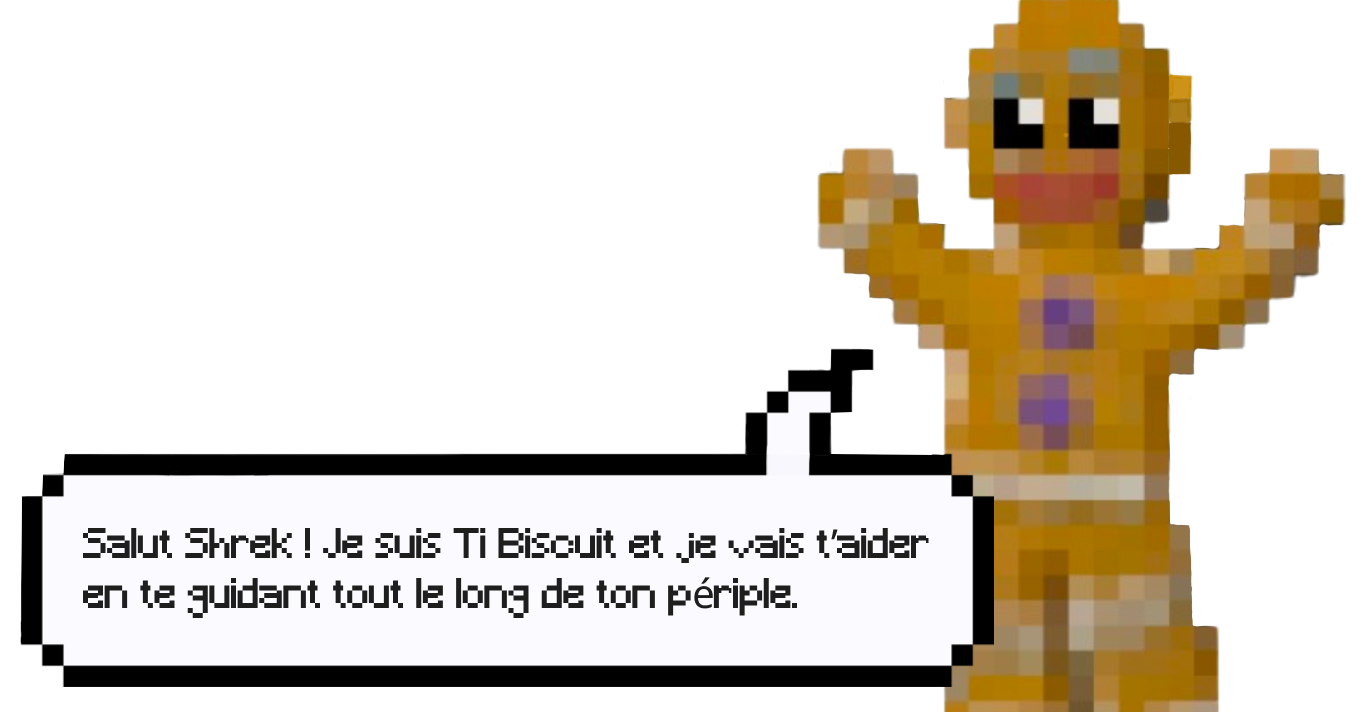
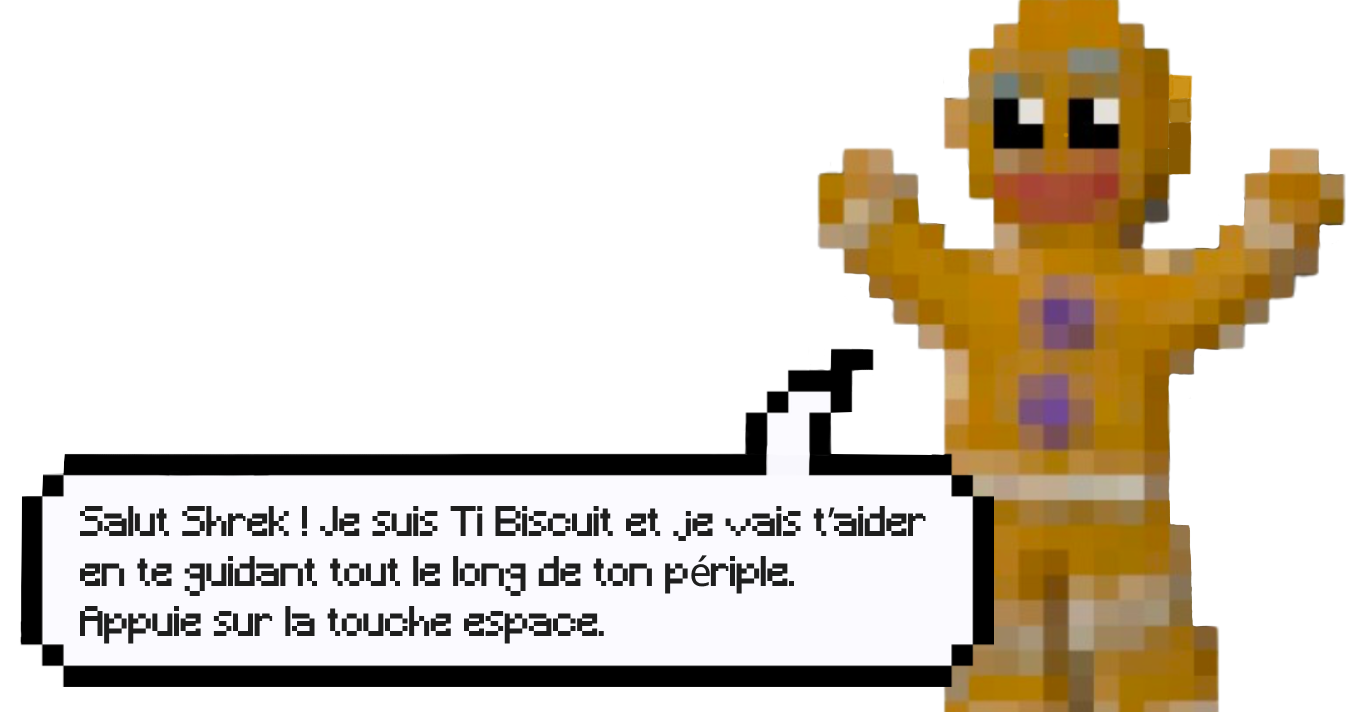
SceneIntro

Changed region(s): [[0.0615, 0.7107, 0.6769, 0.8961]]

diff --git a/Assets/Scripts/Core/HUD.cs b/Assets/Scripts/Core/HUD.cs
@@ -9,6 +9,23 @@ public class HUD : MonoBehaviour
 	[SerializeField] private GameObject deathText; //On insère l'objet texte qui affiche le nombre de morts
 	[SerializeField] private GameObject levelText; //On insère l'objet texte qui affiche le numéro du niveau
 	[SerializeField] private GameObject timerText; //On insère l'objet texte qui affiche le compteur de temps
+	[SerializeField] private GameObject[] imagesDialog1;
+
+	private int numImageDialog1 = 0;
+	private bool showingDialog1 = false;
+
+	void Update()
+    {
+        if (showingDialog1)
+        {
+            if (Input.GetKeyDown(KeyCode.Space))
+            {
+                ShowNextDialog1();
+            }
+        }
+    }
+
+
 	
 	public void updateDeathText(int nbDeath){
 		deathText.GetComponent<TMP_Text>().text = "Morts : " + nbDeath;
@@ -21,5 +38,21 @@ public class HUD : MonoBehaviour
 	public void updateTimer(float time){
 		//Permet d'arrondir le temps à deux chiffres après la virgule
 		timerText.GetComponent<TMP_Text>().text = "Temps " + time.ToString("F2")  +"s";
+	}
+
+	public void showDialog1(int numImage){
+		for(int i = 0; i < imagesDialog1.Length; i++){
+			if(numImage == i){
+				imagesDialog1[i].SetActive(true);
+			} else {
+				imagesDialog1[i].SetActive(false);
+			}
+		}
+	}
+
+	public void ShowNextDialog1(){
+		showDialog1(numImageDialog1);
+		numImageDialog1++;
+		showingDialog1 = numImageDialog1 <= imagesDialog1.Length;
 	}
 }

diff --git a/Assets/Scripts/Core/PlayerManager.cs b/Assets/Scripts/Core/PlayerManager.cs
@@ -76,7 +76,7 @@ public class PlayerManager : MonoBehaviour
 
 		if(_numTableau == 2){
 			Debug.Log("tab2");
-			dialog1.SetActive(true);
+			hud.ShowNextDialog1();
 		}
 	}
 	
